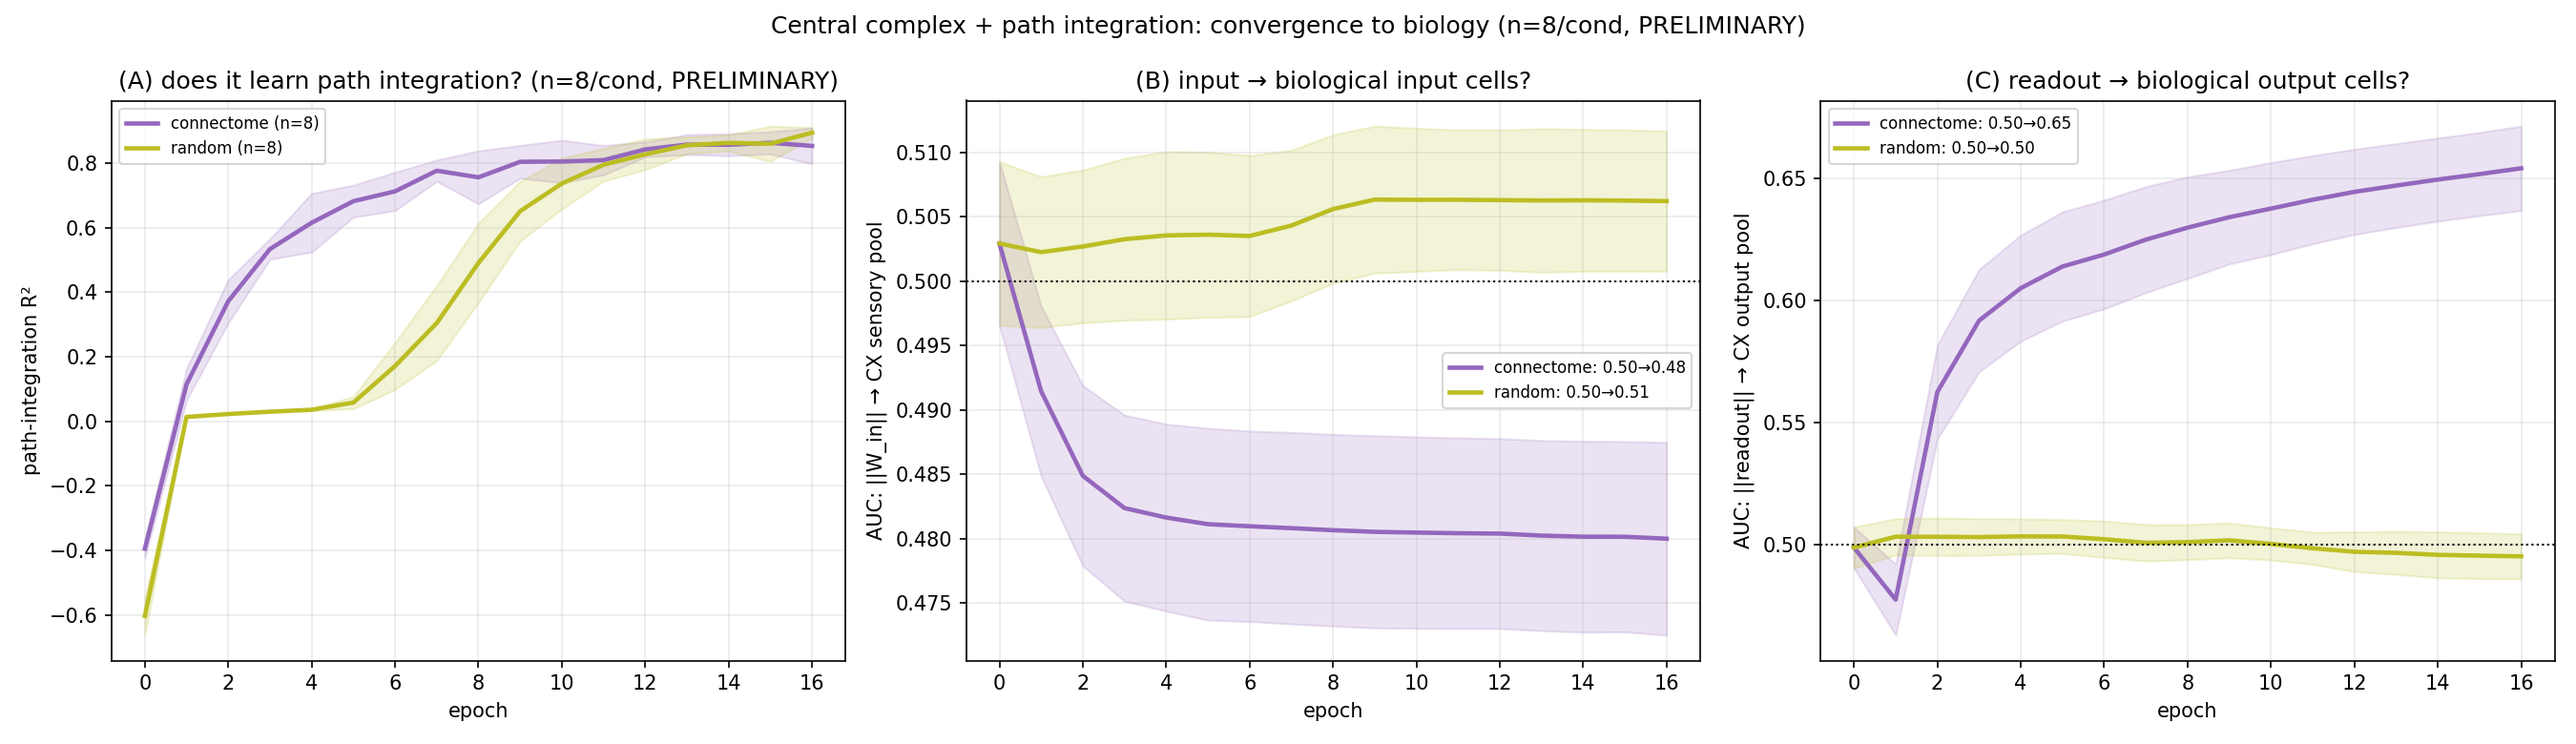
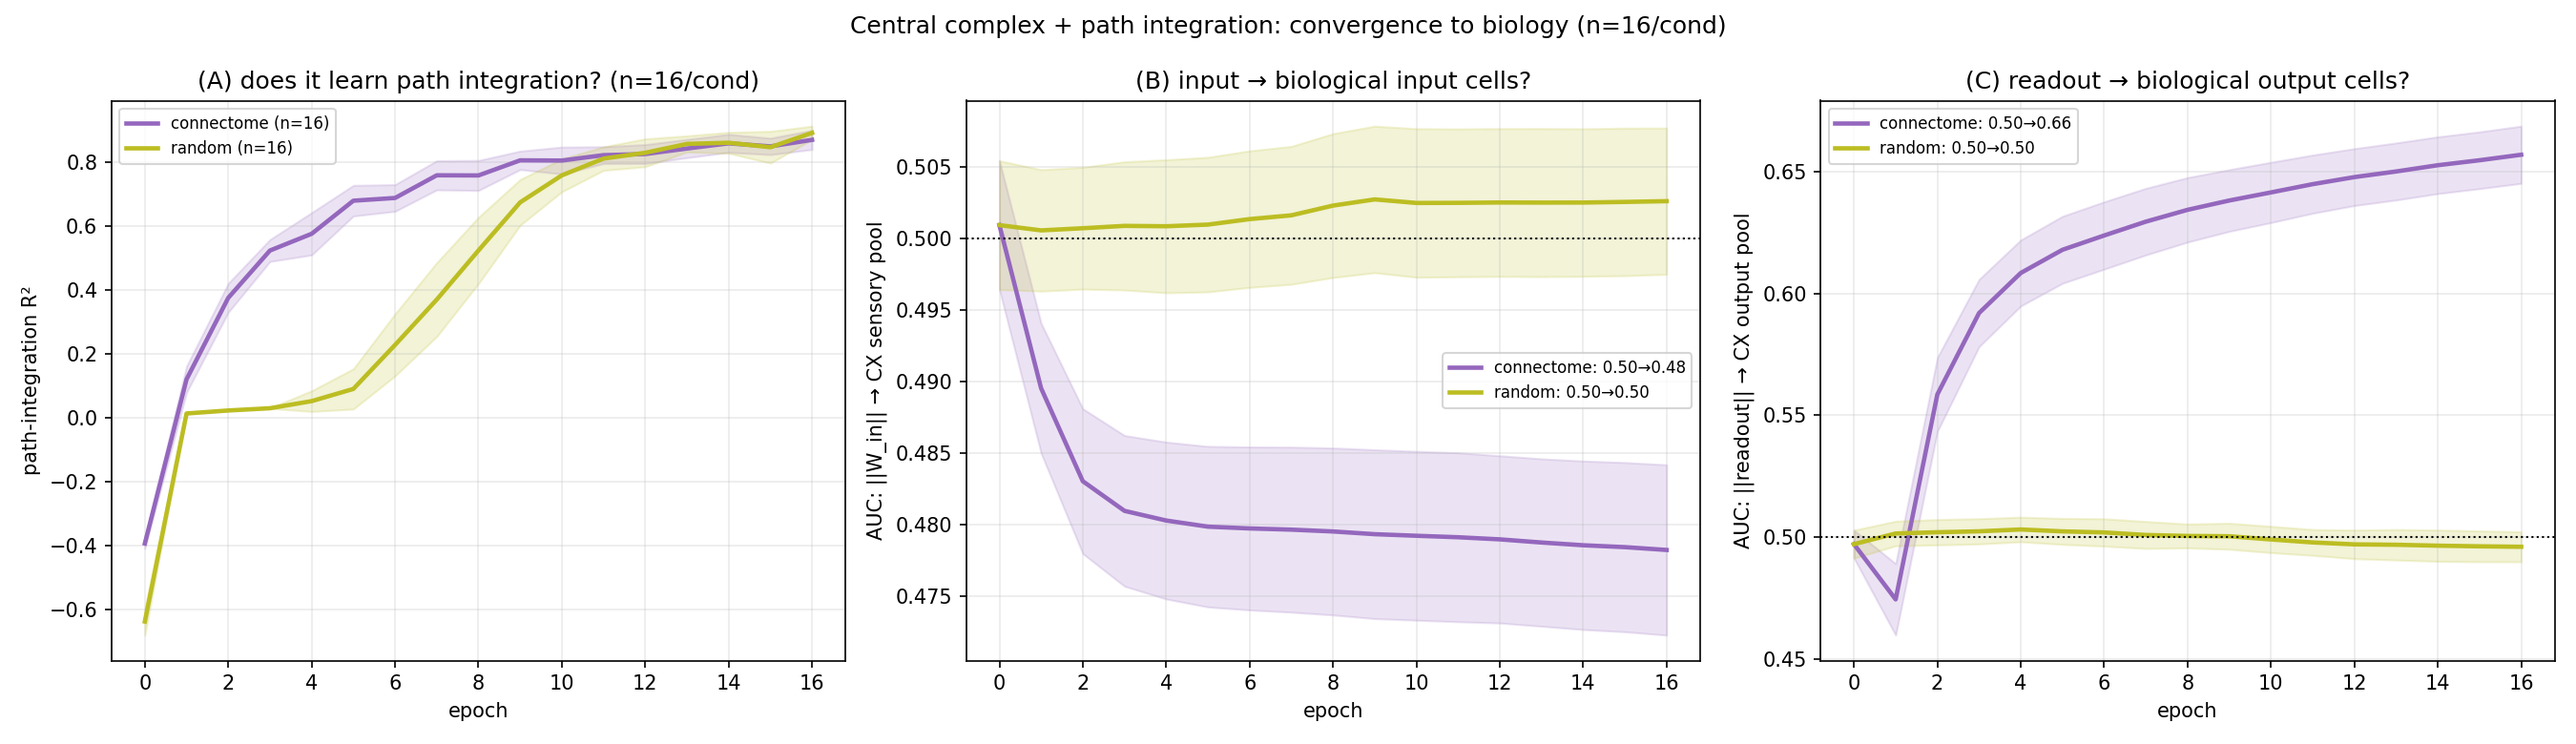
CX convergence FINAL (n=16): output-layer converges to biology (16/16, p=3.6e-13)
Full 16-seed result. Readout migrates onto the CX biological output pool (steering/PFL):
AUC 0.50->0.657, connectome beats paired random 16/16 seeds (paired t p=3.6e-13); input
layer does NOT converge (0.50->0.478, null/slightly below). Refined cross-region framing:
NOT a mirror image -- MB matches both interfaces (input-dominant +0.10, output +0.06), CX
matches output only (+0.16), OL neither. Convergence strength tracks task dependence on
each interface. Drops PRELIMINARY banner.

diff --git a/docs/results/cx_biology_convergence/README.md b/docs/results/cx_biology_convergence/README.md
@@ -1,69 +1,69 @@
-# Does a path-integration network *converge to biology*? (Central complex, free I/O) — PRELIMINARY
+# Does a path-integration network *converge to biology*? (Central complex, free I/O) — n=16
 
-> **Status: PRELIMINARY — n=8 of 16 seeds per condition (run in progress).** Numbers will be
-> refreshed to the full n=16 paired result on completion. Direction is already robust.
-
-## TL;DR — the effect (and it's the *mirror image* of the mushroom body)
+## TL;DR
 Build a recurrent network whose recurrent matrix **is** the central-complex (CX) connectome (trainable),
 give it a **free** input projection *and* a **free** readout over all N neurons (no pool gating), and
-train it on the CX-native **polar-bump path-integration** task. Over training:
+train it on the CX-native **polar-bump path-integration** task. Over training the **readout
+spontaneously converges onto the CX's biological OUTPUT cells** (the connectivity-defined output pool —
+the steering / pre-motor PFL-type neurons): AUC(‖readout‖→output) rises from chance **0.50 → 0.66**,
+in **every one of 16 seeds**, while a paired random-wired control stays flat at 0.50
+(Δ=+0.161, paired t **p=3.6e-13**). The **input** layer, by contrast, does **not** converge onto the
+sensory pool — it drifts slightly *below* chance (0.50 → 0.478). The connectome also **learns the task
+faster** than random (panel A).
 
-- the **readout spontaneously converges onto the CX's biological OUTPUT cells** (the connectivity-defined
-  **output pool** — the steering / pre-motor PFL-type neurons): AUC(‖readout‖→output) rises from chance
-  **0.50 → 0.65**, while a random-wired control stays flat at 0.50;
-- the **input layer does NOT converge** onto the biological input (sensory) pool — it sits slightly
-  *below* chance (0.50 → 0.48).
+![CX convergence](cx_biology_convergence.png)
 
-So where the **MB** (odor task) converged on its **input** cells (the PNs), the **CX** (path task)
-converges on its **OUTPUT** cells. The convergence lands on **whichever interface the task most
-depends on** — odor-identity readin for the MB, motor/steering readout for the path integrator.
-
-![CX convergence (preliminary)](cx_biology_convergence.png)
-
-## Results (n=8/condition, paired connectome-vs-random on the same seeds)
-| layer | connectome | random | Δ | conn>rand | paired t | Wilcoxon |
+## Results (n=16/condition, paired connectome-vs-random on the same seeds)
+| layer | connectome (init→final) | random | Δ | conn>rand | paired t | Wilcoxon |
 |---|---|---|---|---|---|---|
-| **readout → output pool** | **0.654** | 0.495 | **+0.159** | **8/8** | **p=3.9e-7** | p=7.8e-3 |
-| input → sensory pool | 0.480 | 0.506 | −0.026 | 0/8 | p=5.9e-6 | p=7.8e-3 |
+| **readout → output pool** | 0.50 → **0.657** | 0.496 | **+0.161** | **16/16** | **3.6e-13** | 3.1e-5 |
+| input → sensory pool | 0.50 → 0.478 | 0.503 | −0.024 | 1/16 | 1.7e-8 (below) | 6.1e-5 |
 
-- **Output side:** robust, every seed (8/8), highly significant — the readout migrates onto the
+- **Output side:** robust in every seed, extremely significant — the readout migrates onto the
   biological output cells.
-- **Input side:** null/slightly negative — input does not find the sensory pool (the connectome even
-  pushes it marginally *below* chance, the way the OL did on its output side).
-- **Bonus (panel A):** the connectome also **learns the task faster** than random (breaks from the
-  zero-R² plateau ~epoch 2 vs ~epoch 5); both reach R²≈0.85–0.89.
+- **Input side:** does *not* find the sensory pool; the connectome even pushes input weight marginally
+  *below* chance (a mild anti-alignment, not a convergence).
+- **Learning (panel A):** both reach R²≈0.87–0.89; the connectome breaks from the zero-R² plateau
+  ~epoch 2 vs ~epoch 5 for random.
+
+## How this relates to the MB and OL — complementary emphases, not a mirror image
+Measuring **both** interfaces across the three regions (input = ‖W_in‖→input-pool, output =
+‖readout‖→output-pool), the picture is graded:
+
+| region | task | input-cell match | output-cell match |
+|---|---|---|---|
+| **MB** | odor identity | **+0.10** (strong, 18/20, p=1e-5) | +0.06 (weak but real, 18/20, p=2e-4) |
+| **CX** | path integration | −0.02 (none) | **+0.16** (strong, 16/16, p=4e-13) |
+| **OL** | optic flow (synthetic) | ~0 (none) | ~0 (none) |
+
+So it is **not** a clean MB-input / CX-output mirror: the **MB matches on both interfaces but is
+input-dominant** (its odor-identity computation hinges on *which input channel*), while the **CX matches
+on the output only** (its path-integration computation hinges on the *steering/heading command* it must
+emit; the velocity input is low-dimensional and generic, so the input layer has no pressure to localize).
+The OL flow task (as set up) engages neither biological interface → null. The through-line: **convergence
+strength on an interface tracks how much the circuit's task actually depends on that interface.**
 
 ## Methodology
 - **Model:** `FreeCXBPU` — the validated `src.models.SparseCXBPU` with **free I/O** (sensory_indices =
   output_indices = all N), made memory-light via **edge message-passing + gradient checkpointing**
-  (verified numerically identical to stock `SparseCXBPU`: <1e-7 forward, <1e-9 gradient). Recurrent =
-  CX connectome (N=7,349, ~512k edges), **trainable**, ρ=0.95; K=3 microsteps; free `W_in`∈ℝ^{N×2}
-  (forward + angular velocity), free readout ∈ℝ^{35×N} (32-bin heading bump + 3 home-vector).
-- **Task:** CX-native **`cx_polar_bump`** path integration (pre-generated `train_T50` sequences,
-  T=50), MSE loss, R² metric.
-- **Biological I/O labels:** CX `pool_assignments.csv` — `is_sensory` (input pool) and `is_output`
-  (output pool), the connectivity-defined extra-CX in/out ports.
+  (verified numerically identical to stock `SparseCXBPU`: <1e-7 forward, <1e-9 gradient → 44GB→2GB).
+  Recurrent = CX connectome (N=7,349, ~512k edges), **trainable**, ρ=0.95; **K=3 microsteps**; free
+  `W_in`∈ℝ^{N×2} (forward + angular velocity), free readout ∈ℝ^{35×N} (32-bin heading bump + 3
+  home-vector). Input pool = 741 sensory cells, output pool = 591 cells.
+- **Task:** CX-native **`cx_polar_bump`** path integration (pre-generated `train_T50` = 10k trajectories,
+  T=50), MSE loss, R² metric. Same data for every model/seed.
 - **Control:** `random_control_matrix` — same edge count + weights, scattered positions (ER-style),
-  rescaled to ρ=0.95. Paired with the connectome on the same training seeds.
-- **Convergence metric:** ROC-AUC with which per-neuron ‖W_in‖ (resp. ‖readout‖) predicts membership
-  in the sensory (resp. output) pool, init → final. 0.5 = chance.
-
-## The 3-region picture (forming)
-| region | task | converges to biology? | which layer |
-|---|---|---|---|
-| **MB** | odor → valence | ✅ yes | **input** (projection neurons) |
-| **CX** | path integration | ✅ yes (preliminary) | **output** (steering pool) |
-| **OL** | optic flow (synthetic) | ❌ no | neither |
-
-The headline isn't a flat "AI converges to biology" — it's **region- and layer-specific**: convergence
-happens on the interface each circuit's task actually hinges on, and not at all when the task doesn't
-engage the circuit's biological role (OL flow).
+  rescaled to ρ=0.95 (degree-/weight-/spectral-radius-matched, scrambled wiring). Paired with the
+  connectome on the same seed (same init + same data) → a per-seed difference is the *specific wiring*.
+- **Convergence metric:** ROC-AUC with which per-neuron ‖W_in‖ (resp. ‖readout‖) predicts membership in
+  the sensory (resp. output) pool, snapshotted init → final. 0.5 = chance.
+- **Training:** Adam lr=1e-3, grad-clip 1.0, 16 epochs, batch 64, 16 seeds × {connectome, random}.
 
 ## Caveats
-- **Preliminary (n=8/16).** The output effect is already 8/8 seeds at p<1e-6; full n=16 to follow.
-- "Biological output cells" = the connectivity-defined CX **output pool** (extra-CX projectors), not a
-  cell-type-curated steering set; it is the same pool the validated CX path results use.
-- Input-side is null (consistent with the path task driving the *motor* interface, not the sensory one).
+- "Biological output cells" = the connectivity-defined CX **output pool** (extra-CX projectors), the
+  same pool the validated CX path results use — not a cell-type-curated steering set.
+- Input-side is null/slightly-negative (consistent with the path task driving the *motor* interface, not
+  the sensory one).
 
 ## Reproduce
 Train+snapshot (one model×seed per call): `scripts/path/run_cx_biology_convergence.py
